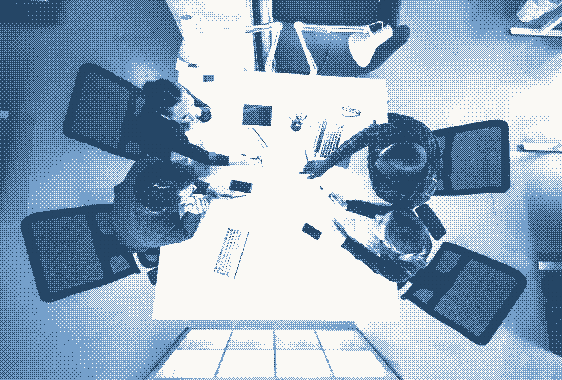
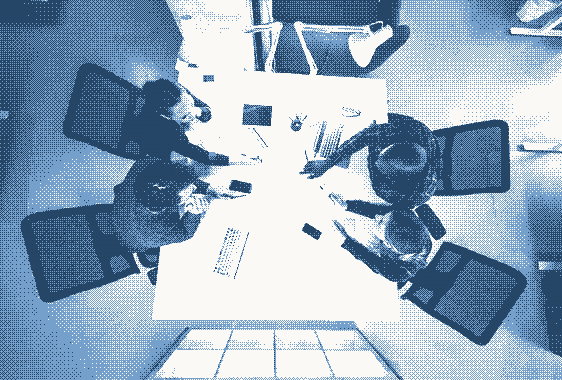
Ideal Metrics: foto da Experiencia desde 1998 refeita do original (18Asset 73) pela receita do Spirit, com nitidez

Changed region(s): [[0.5445, 0.3474, 0.605, 0.4053], [0.9982, 0.0, 1.0, 0.0579], [0.3932, 0.4921, 0.4235, 0.5211]]

diff --git a/index.html b/index.html
@@ -3649,7 +3649,7 @@ body>*{position:relative;z-index:1}
       <div class="df-bloco">
         <h3 class="df-nome">Experiência desde 1998</h3>
         <div class="df-quadro">
-          <img class="df-foto" src="img/reuniao-equipe-bayer-df.webp?v=24102026" data-lum="img/reuniao-equipe-lum-df.webp?v=24102026" data-tom='{"brilhoTom":0.34,"gama":1,"ctr":1.65,"escuro":0.25,"limiar":-0.04,"veu":0.05,"cores":["#153351","#183858","#6792BD","#FAF9F5"]}' alt="Equipe reunida em volta de uma mesa de trabalho, vista de cima" loading="lazy">
+          <img class="df-foto" src="img/reuniao-equipe-bayer-df.webp?v=24102026b" data-lum="img/reuniao-equipe-lum-df.webp?v=24102026b" data-tom='{"brilhoTom":0.34,"gama":1,"ctr":1.65,"escuro":0.25,"limiar":-0.04,"veu":0.05,"cores":["#153351","#183858","#6792BD","#FAF9F5"]}' alt="Equipe reunida em volta de uma mesa de trabalho, vista de cima" loading="lazy">
         </div>
         <p class="df-mono">Equipe em atuação desde 1998 na preparação de organizações de diversos setores para normas e padrões de mercado, do diagnóstico ao certificado.</p>
       </div>
